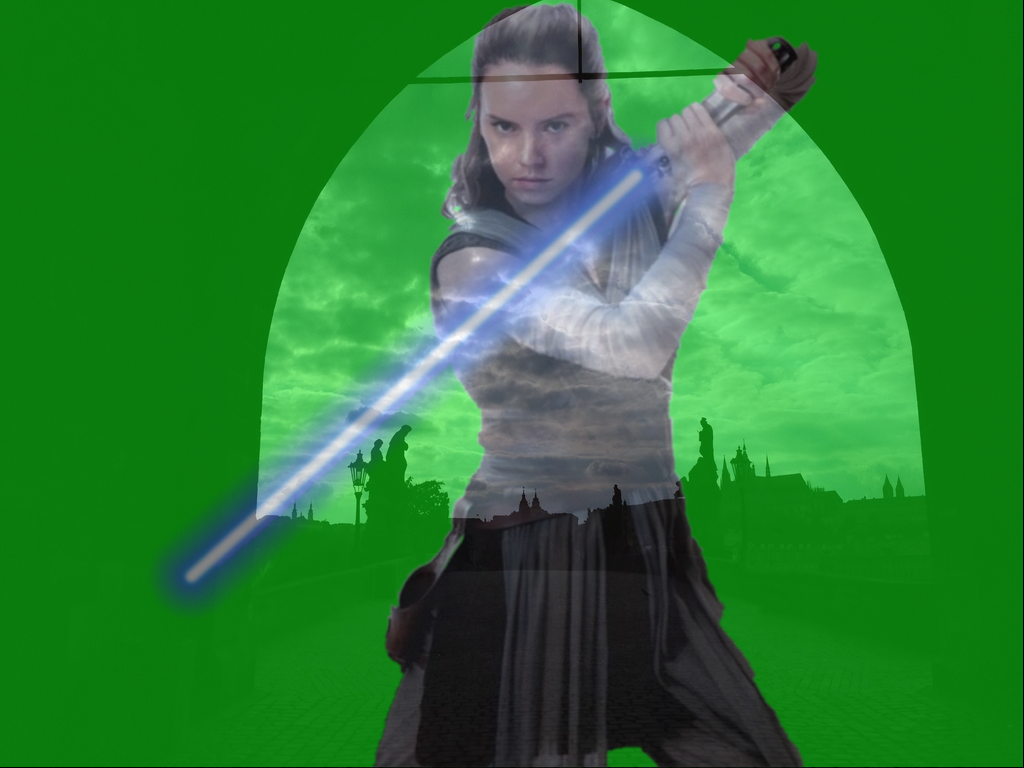
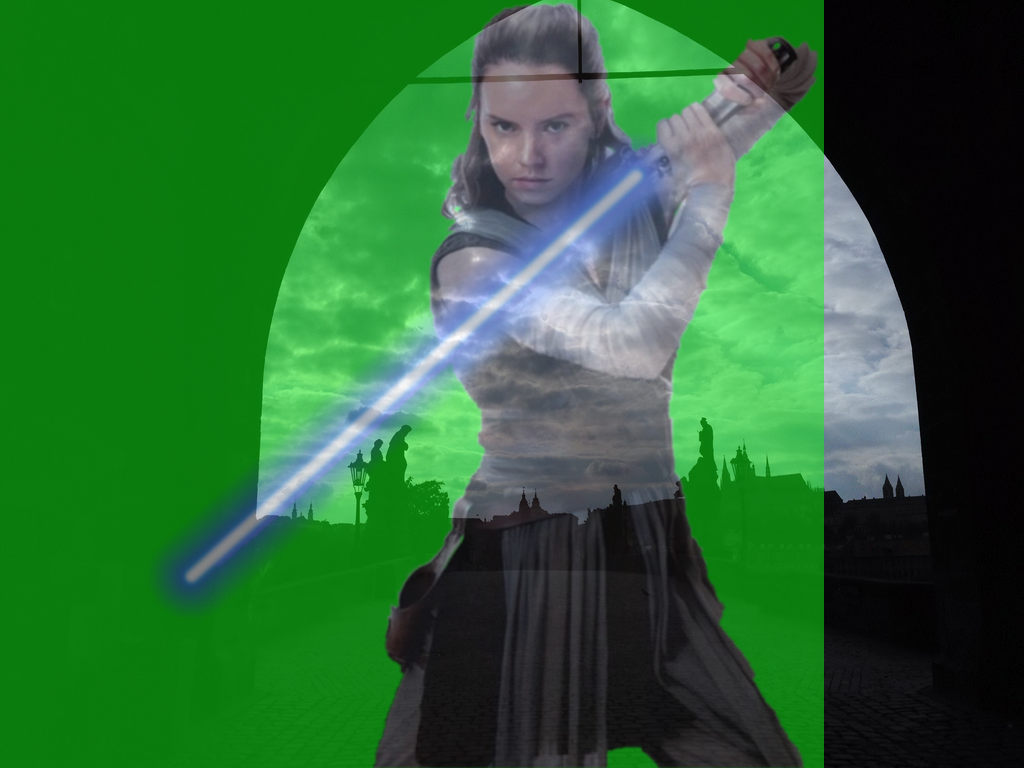
figured out how to delete a section of the character image using the averaging loop, not I just need to figure out how to get rid of the rest of the green

Changed region(s): [[0.7812, 0.0, 1.0, 1.0]]

diff --git a/main.py b/main.py
@@ -50,8 +50,8 @@ while not done:
 #supposedly that is all comments now??
 
 #The last slide in the presentation formats the loop like this:
-for y in range(0, height-1):
-    for x in range(0, width-1):
+for y in range(0, height-0):
+    for x in range(0, width-200):
         pixelColor = img.get_at((x, y))
         pixelColor2 = img2.get_at((x, y))
         red = (pixelColor.r+pixelColor2.r) / 2
